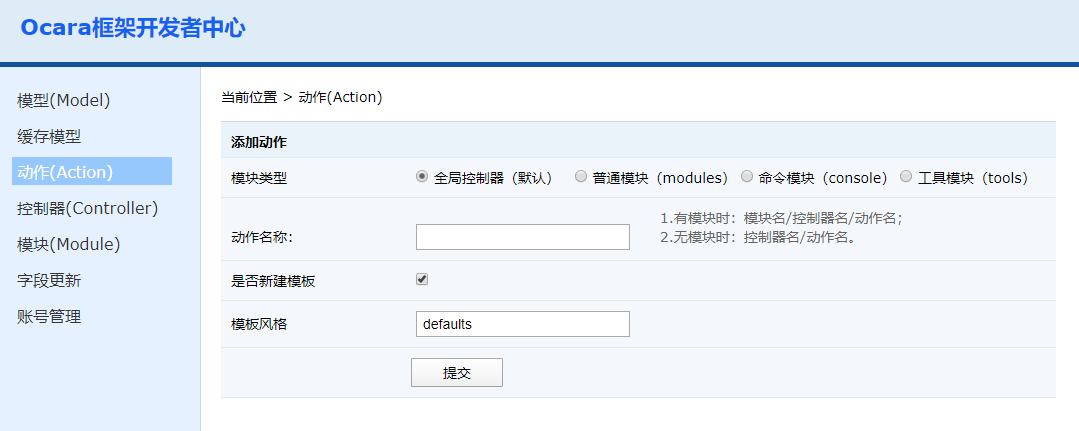
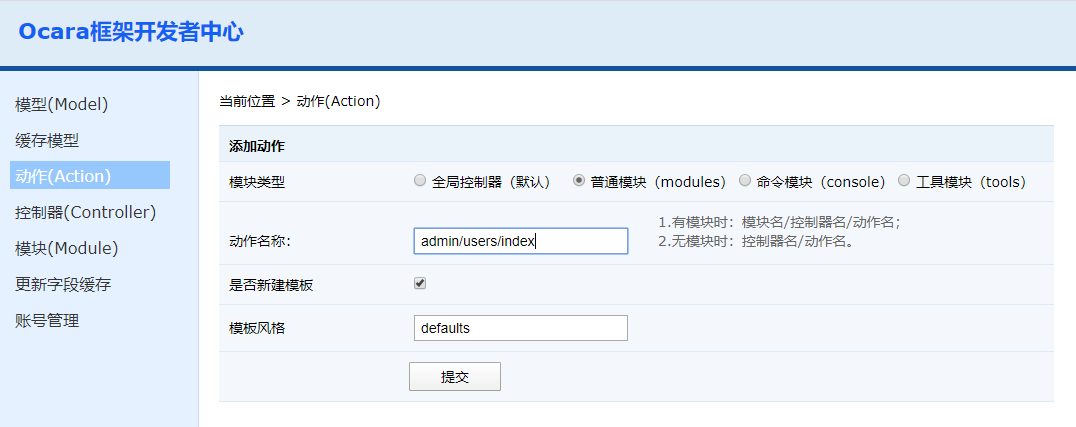
修改开发者中心图片。增加字段缓存更新。

diff --git a/5.数据模型层/5.3_数据模型的使用.html b/5.数据模型层/5.3_数据模型的使用.html
@@ -19,15 +19,9 @@
 </style>
 </head>
 <body>
-<pre><h2>5.3 数据模型（Model）</h2>
+<pre><h2>5.3 数据模型的使用（Model）</h2>
 
 <strong>1、新建模型</strong>
-      新建模型有两种方法：
-      （1）直接新建Model类。
-      （2）使用Model类的build()方法。
-      （3）使用控制器动作的model()方法，用于建立默认的Model。
-
-<strong>2、详细说明</strong>
       （1）直接新建Model类
 
 <pre class="brush: php;">
@@ -38,7 +32,7 @@ $userModel = new \app\model\database\UserModel();
 $userModel = new \app\model\database\BBS\UserModel();
 
 </pre>
-      （2）使用build()方法
+    （2）使用<span class="function"><strong>build()</strong></span>方法
           本框架所有的类，都继随自\Ocara\Base基类，该基类定义了build()方法，可以新增当前对象。
 
 <pre class="brush: php;">
@@ -107,6 +101,106 @@ class UpdateAction extends Controller
      */
 	public function submit()
 	{}
+}
+</pre>
+
+ <strong>2、字段缓存</strong>
+    数据模型在查询和保存时都要查出表字段进行一些处理，所以增加了字段缓存，以免经常查库。
+
+     <strong>（1）更新字段缓存</strong>
+            所以修改了字段，要更新一下缓存才行，只要在开发者中心更新字段。请参考。
+
+     <strong>（2）默认缓存方式</strong>
+            字段默认缓存在data/fields目录中与模型同名的文件中。
+
+                 <img src="../style/images/字段数据文件.png" alt="添加控制器"/>
+
+     <strong>（3）自定义缓存方式</strong>
+            如果要修改缓存方式，比如缓存在Redis，只要使用事件。
+            可以在基类Base\Model\DatabaseModel中修改<span class="STYLE1">onGetCacheFields()</span>和<span class="STYLE1">onSaveCacheFields()</span>事件处理函数。
+
+            实例如下：
+
+            （a）我们首先在开发者中心建立一个Redis缓存模型。
+
+<pre class="brush: php;">
+namespace app\model\cache;
+use Base\Model\CacheModel;
+
+class TableFieldsModel extends CacheModel
+{
+	protected $connectName = 'defaults';
+	protected $prefix = 'databaseModel:';
+	protected $database = '0';
+
+	/**
+	 * 初始化模型
+	 */
+	public function __model()
+	{}
+
+    /**
+     * 获取数据
+     */
+    public function getData($name)
+    {
+        $key = $this->getKey($name);
+        $data = $this->get($key);
+
+        if ($data) {
+            $data = json_decode($data, true) ? : array();
+        }
+
+        return $data;
+    }
+
+    /**
+     * 保存数据
+     */
+    public function saveData($name, $fieldsConfig)
+    {
+        $key = $this->getKey($name);
+        $data = $fieldsConfig ? json_encode($fieldsConfig) : OC_EMPTY;
+        $this->set($key, $data, 3600 * 24 * 30);
+    }
+}
+</pre>
+
+            （b）修改基类Base\Model\DatabaseModel的字段缓存事件。
+
+<pre class="brush: php;">
+/**
+ * 数据库模型基类
+ */
+namespace Base\Model;
+
+use Ocara\Models\DatabaseModel as BaseDatabaseModel;
+use app\model\cache\TableFieldsModel;
+
+class DatabaseModel extends BaseDatabaseModel
+{
+
+    /**
+     * 获取字段缓存事件处理
+     * @param $event
+     * @param $eventTarget
+     * @return array|mixed
+     */
+    public function onGetCacheFields($event, $eventTarget)
+    {
+        TableFieldsModel::build()->getData(self::getClass());
+    }
+
+    /**
+     * 保存字段缓存事件处理
+     * @param $fieldsConfig
+     * @param $event
+     * @param $eventTarget
+     */
+    public function onSaveCacheFields($fieldsConfig, $event, $eventTarget)
+    {
+        TableFieldsModel::build()->saveData(self::getClass(), $fieldsConfig);
+    }
 }
 </pre>
 

diff --git a/2.开发者中心/2.8_更新字段缓存.html b/2.开发者中心/2.8_更新字段缓存.html
@@ -1,0 +1,27 @@
+<!DOCTYPE html PUBLIC "-//W3C//DTD XHTML 1.0 Transitional//EN" "http://www.w3.org/TR/xhtml1/DTD/xhtml1-transitional.dtd">
+<html xmlns="http://www.w3.org/1999/xhtml">
+<head>
+<meta http-equiv="Content-Type" content="text/html; charset=utf-8" />
+<title>2.8 更新字段缓存</title>
+<script type="text/javascript" src="../syntax/scripts/shCore.js"></script>
+<script type="text/javascript" src="../syntax/scripts/shBrushPhp.js"></script>
+<link type="text/css" rel="stylesheet" href="../style/base.css" />
+<link type="text/css" rel="stylesheet" href="../syntax/styles/shCoreDefault.css"/>
+<script type="text/javascript" src="../treeview/base.js"></script>
+</head>
+
+<body><pre><h2>2.8 更新字段缓存</h2>
+       
+
+    进入开发者中心，点击左边的&quot;更新字段缓存”菜单。右边会出现新建控制器的界面。
+
+        <img src="../style/images/更新字段缓存.png"/>
+
+    <h2>选项介绍</h2>
+
+    <strong>模型类名</strong>：
+        填写数据模型的命名空间类名。
+
+</pre>
+</body>
+</html>
